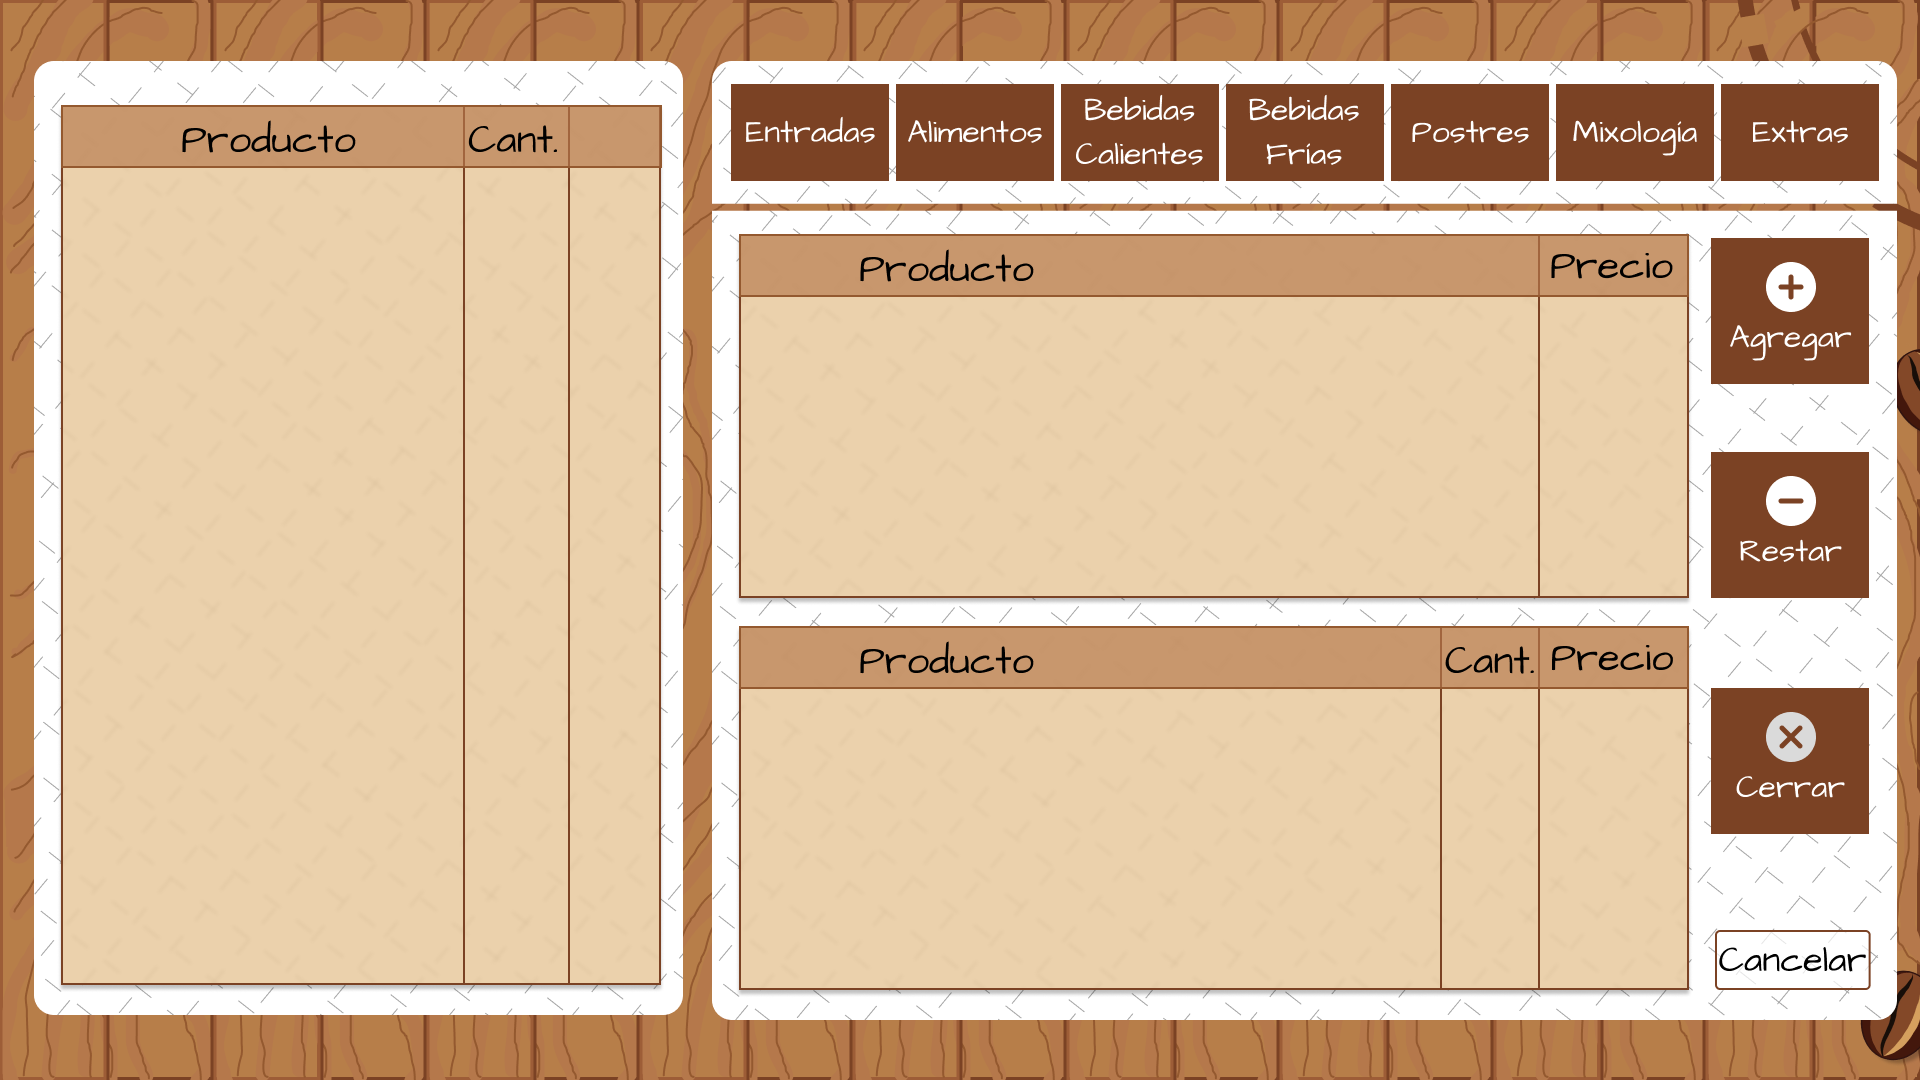
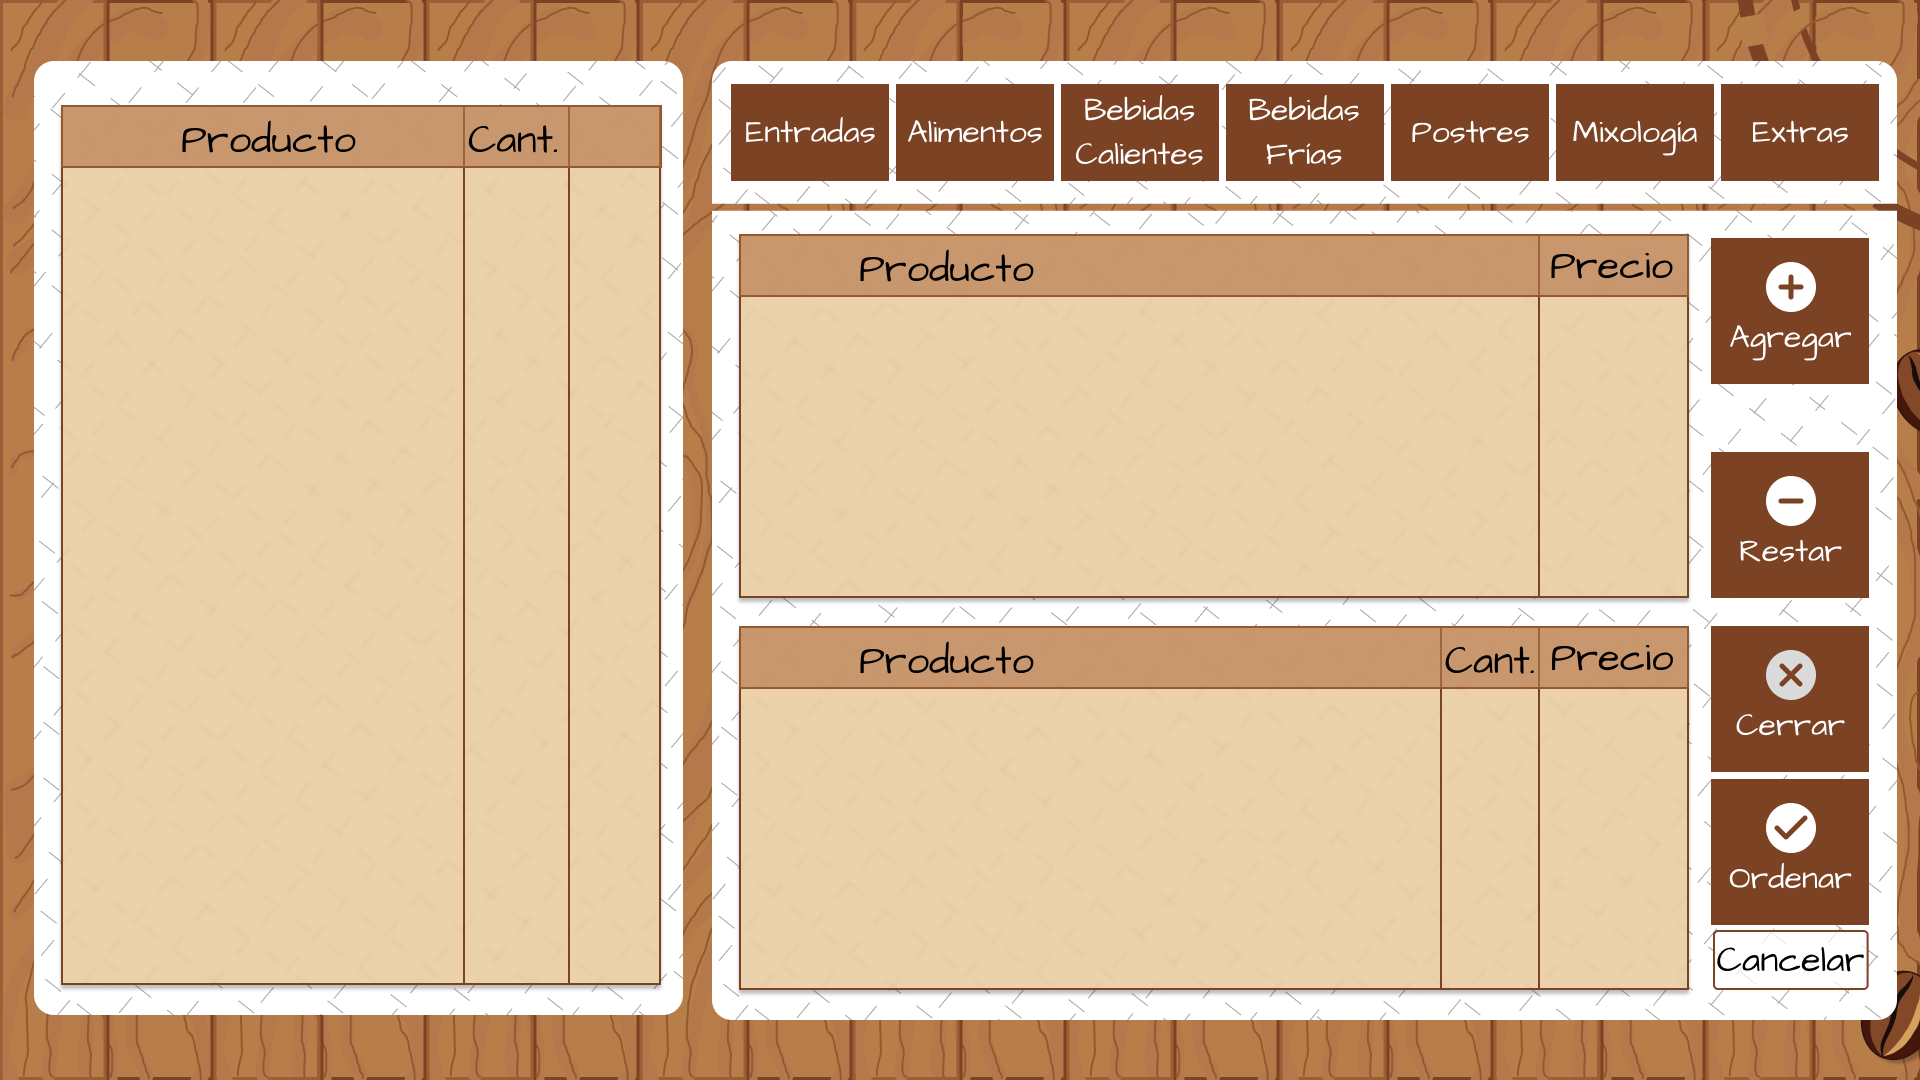
cambios en GUI_WaitresTableBill

Changed region(s): [[0.875, 0.5806, 1.0, 0.9167]]

diff --git a/AromaCafeCliente/Windows/GUI_WaitersTableBill.xaml b/AromaCafeCliente/Windows/GUI_WaitersTableBill.xaml
@@ -428,7 +428,7 @@
                         Grid.Column="1" 
                         HorizontalAlignment="Left" 
                         Height="146" 
-                        Margin="8,78,0,0" 
+                        Margin="8,16,0,0" 
                         VerticalAlignment="Top" 
                         Width="158">
                         <Button.Template>
@@ -450,10 +450,37 @@
                         </Button.Template>
                     </Button>
 
+                    <Button
+                        x:Name="btnOrder"
+                        Grid.Column="1" 
+                        HorizontalAlignment="Left" 
+                        Height="146" 
+                        Margin="8,169,0,0" 
+                        VerticalAlignment="Top" 
+                        Width="158" Click="btnOrder_Click">
+                        <Button.Template>
+                            <ControlTemplate TargetType="Button">
+                                <Grid>
+                                    <Border x:Name="ButtonBackground" Background="Transparent" Width="{TemplateBinding Width}" Height="{TemplateBinding Height}" VerticalAlignment="Top" HorizontalAlignment="Left" />
+                                    <ContentPresenter HorizontalAlignment="Center" VerticalAlignment="Center" />
+                                </Grid>
+                                <ControlTemplate.Triggers>
+                                    <Trigger Property="IsMouseOver" Value="True">
+                                        <Setter TargetName="ButtonBackground" Property="Background">
+                                            <Setter.Value>
+                                                <ImageBrush ImageSource="pack://application:,,,/Multimedia/HoverOrdenar.png" Stretch="UniformToFill"/>
+                                            </Setter.Value>
+                                        </Setter>
+                                    </Trigger>
+                                </ControlTemplate.Triggers>
+                            </ControlTemplate>
+                        </Button.Template>
+                    </Button>
+
                     <Button 
                         Grid.Column="1" 
                         HorizontalAlignment="Left" 
-                        Height="60" Margin="12,320,0,0" 
+                        Height="60" Margin="10,320,0,0" 
                         VerticalAlignment="Top" 
                         Width="155">
                         <Button.Template>

diff --git a/AromaCafeCliente/Windows/GUI_WaitersTableBill.xaml.cs b/AromaCafeCliente/Windows/GUI_WaitersTableBill.xaml.cs
@@ -21,5 +21,9 @@ namespace AromaCafeCliente.Windows {
         public GUI_WaitersTableBill() {
             InitializeComponent();
         }
+
+        private void btnOrder_Click(object sender, RoutedEventArgs e) {
+
+        }
     }
 }
